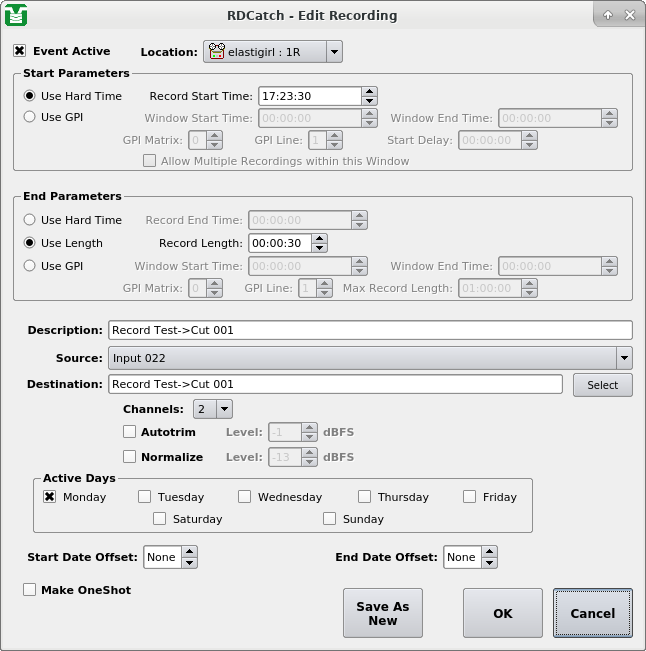
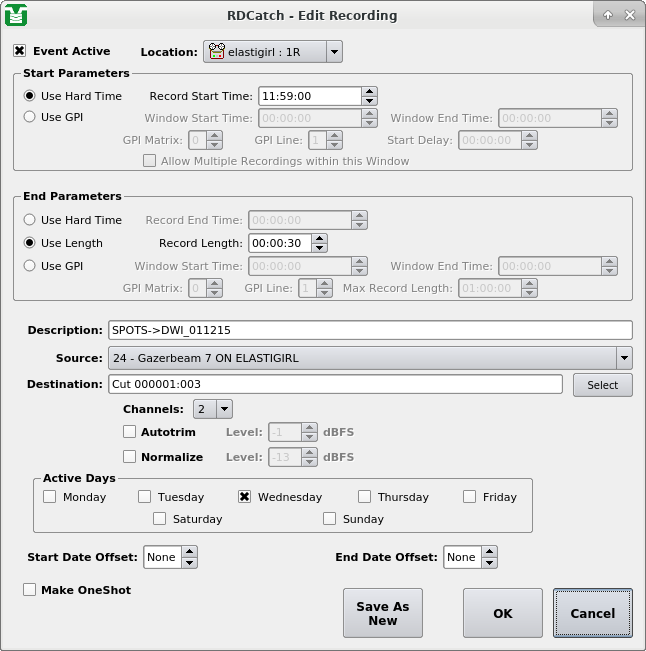
2022-09-30 Fred Gleason <fredg@paravelsystems.com> 	* Updated various dialogs in rdcatch(1) to use new 'pretty text' 	styling for cart and cut objects.

diff --git a/rdcatch/edit_recording.cpp b/rdcatch/edit_recording.cpp
@@ -29,7 +29,6 @@
 #include "edit_recording.h"
 #include "globals.h"
 
-//EditRecording::EditRecording(int id,std::vector<int> *adds,QString *filter,
 EditRecording::EditRecording(QString *filter,QWidget *parent)
   : RDDialog(parent)
 {
@@ -313,101 +312,6 @@ EditRecording::EditRecording(QString *filter,QWidget *parent)
   edit_cancel_button->setFont(buttonFont());
   edit_cancel_button->setText(tr("Cancel"));
   connect(edit_cancel_button,SIGNAL(clicked()),this,SLOT(cancelData()));
-
-  //
-  // Populate Data
-  //
-  /*
-  edit_event_widget->fromRecording(edit_recording->id());
-  edit_starttime_edit->setTime(edit_recording->startTime());
-  edit_description_edit->setText(edit_recording->description());
-  edit_starttype_group->button((int)edit_recording->startType())->
-    setChecked(true);
-  switch((RDRecording::StartType)edit_starttype_group->checkedId()) {
-  case RDRecording::HardStart:
-    edit_starttime_edit->setTime(edit_recording->startTime());
-    break;
-
-  case RDRecording::GpiStart:
-    edit_start_startwindow_edit->setTime(edit_recording->startTime());
-    edit_start_endwindow_edit->
-      setTime(edit_start_startwindow_edit->time().
-	      addMSecs(edit_recording->startLength()));
-    edit_startmatrix_spin->setValue(edit_recording->startMatrix());
-    edit_startline_spin->setValue(edit_recording->startLine());
-    edit_startoffset_edit->
-      setTime(QTime(0,0,0).addMSecs(edit_recording->startOffset()));
-    edit_multirec_box->
-      setChecked(edit_recording->allowMultipleRecordings());
-    break;
-  }
-  startTypeClickedData(edit_starttype_group->checkedId());
-  edit_endtype_group->button((int)edit_recording->endType())->setChecked(true);
-  switch((RDRecording::EndType)edit_endtype_group->checkedId()) {
-  case RDRecording::LengthEnd:
-    edit_endlength_edit->
-      setTime(QTime(0,0,0).addMSecs(edit_recording->length()));
-    break;
-
-  case RDRecording::HardEnd:
-    edit_endtime_edit->setTime(edit_recording->endTime());
-    break;
-
-  case RDRecording::GpiEnd:
-    edit_end_startwindow_edit->setTime(edit_recording->endTime());
-    edit_end_endwindow_edit->
-      setTime(edit_end_startwindow_edit->time().
-	      addMSecs(edit_recording->endLength()));
-    edit_endmatrix_spin->setValue(edit_recording->endMatrix());
-    edit_endline_spin->setValue(edit_recording->endLine());
-    break;
-  }
-  edit_maxlength_edit->
-    setTime(QTime(0,0,0).addMSecs(edit_recording->maxGpiRecordingLength()));
-  endTypeClickedData(edit_endtype_group->checkedId());
-
-  edit_cutname=edit_recording->cutName();
-  edit_destination_edit->setText(RDCutPath(edit_cutname));
-  edit_dow_selector->fromRecording(edit_recording->id());
-  edit_startoffset_box->setValue(edit_recording->startdateOffset());
-  edit_endoffset_box->setValue(edit_recording->enddateOffset());
-  locationChangedData(edit_event_widget->stationName(),
-		      edit_event_widget->deckNumber());
-
-  QString source=GetSourceName(edit_recording->switchSource());
-  for(int i=0;i<edit_source_box->count();i++) {
-    if(edit_source_box->itemData(i).toString()==source) {
-      edit_source_box->setCurrentIndex(i);
-    }
-  }
-  if(edit_recording->trimThreshold()>0) {
-    edit_autotrim_box->setChecked(true);
-    edit_autotrim_spin->setValue(-(edit_recording->trimThreshold()/100));
-  }
-  else {
-    edit_autotrim_box->setChecked(false);
-    edit_autotrim_spin->setValue(rda->libraryConf()->trimThreshold()/100);
-  }
-  autotrimToggledData(edit_autotrim_box->isChecked());
-  if(edit_recording->normalizationLevel()<0) {
-    edit_normalize_box->setChecked(true);
-    edit_normalize_spin->setValue(edit_recording->normalizationLevel()/100);
-  }
-  else {
-    edit_normalize_box->setChecked(false);
-    edit_normalize_spin->setValue(rda->libraryConf()->ripperLevel()/100);
-  }
-  normalizeToggledData(edit_normalize_box->isChecked());
-  // Populate number of channels; if creating a new recording entry and a valid
-  // deck exists, use the deck default for num. channels.  Otherwise use the
-  // previously entered (or DB default) recording num. channels.
-  if( (edit_recording->station().length() == 0) && (edit_deck!=NULL) ) {
-    edit_channels_box->setCurrentIndex(edit_deck->defaultChannels()-1);
-  } else {
-    edit_channels_box->setCurrentIndex(edit_recording->channels()-1);
-  }
-  edit_oneshot_box->setChecked(edit_recording->oneShot());
-  */
 }
 
 
@@ -497,7 +401,13 @@ int EditRecording::exec(int id,std::vector<int> *adds)
   endTypeClickedData(edit_endtype_group->checkedId());
 
   edit_cutname=edit_recording->cutName();
-  edit_destination_edit->setText(RDCutPath(edit_cutname));
+  if(edit_cutname.isEmpty()) {
+    edit_destination_edit->clear();
+  }
+  else {
+    edit_destination_edit->
+      setText(tr("Cut")+" "+RDCut::prettyText(edit_cutname));
+  }
   edit_dow_selector->fromRecording(edit_recording->id());
   edit_startoffset_box->setValue(edit_recording->startdateOffset());
   edit_endoffset_box->setValue(edit_recording->enddateOffset());
@@ -638,12 +548,15 @@ void EditRecording::endTypeClickedData(int id)
 
 void EditRecording::selectCutData()
 {
-  QString str;
-
   if(catch_cut_dialog->exec(&edit_cutname)) {
     edit_description_edit->setText(RDCutPath(edit_cutname));
-    str=QString(tr("Cut"));
-    edit_destination_edit->setText(tr("Cut")+" "+edit_cutname);
+    if(edit_cutname.isEmpty()) {
+      edit_destination_edit->clear();
+    }
+    else {
+      edit_destination_edit->
+	setText(tr("Cut")+" "+RDCut::prettyText(edit_cutname));
+    }
   }
 }
 

diff --git a/rdcatch/add_recording.cpp b/rdcatch/add_recording.cpp
@@ -157,7 +157,7 @@ int AddRecording::exec(unsigned *rec_id,RDRecording::Type *type)
 
 void AddRecording::recordingData()
 {
-  *add_record_id=AddRecord(0);
+  *add_record_id=AddRecord(RDRecording::Recording,0);
 
   if(!catch_editrecording_dialog->exec(*add_record_id,NULL)) {
     DeleteRecord();
@@ -171,7 +171,7 @@ void AddRecording::recordingData()
 
 void AddRecording::playoutData()
 {
-  *add_record_id=AddRecord(128);
+  *add_record_id=AddRecord(RDRecording::Playout,128);
 
   if(!catch_editplayout_dialog->exec(*add_record_id,NULL)) {
     DeleteRecord();
@@ -185,7 +185,7 @@ void AddRecording::playoutData()
 
 void AddRecording::downloadData()
 {
-  *add_record_id=AddRecord(0);
+  *add_record_id=AddRecord(RDRecording::Download,0);
 
   if(!catch_editdownload_dialog->exec(*add_record_id,NULL)) {
     DeleteRecord();
@@ -199,7 +199,7 @@ void AddRecording::downloadData()
 
 void AddRecording::uploadData()
 {
-  *add_record_id=AddRecord(0);
+  *add_record_id=AddRecord(RDRecording::Upload,0);
 
   if(!catch_editupload_dialog->exec(*add_record_id,NULL)) {
     DeleteRecord();
@@ -213,7 +213,7 @@ void AddRecording::uploadData()
 
 void AddRecording::macroData()
 {
-  *add_record_id=AddRecord(0);
+  *add_record_id=AddRecord(RDRecording::MacroEvent,0);
 
   if(!catch_editcartevent_dialog->exec(*add_record_id,NULL)) {
     DeleteRecord();
@@ -227,7 +227,7 @@ void AddRecording::macroData()
 
 void AddRecording::switchData()
 {
-  *add_record_id=AddRecord(0);
+  *add_record_id=AddRecord(RDRecording::SwitchEvent,0);
 
   if(!catch_editswitchevent_dialog->exec(*add_record_id,NULL)) {
     DeleteRecord();
@@ -280,14 +280,38 @@ void AddRecording::closeEvent(QCloseEvent *e)
 }
 
 
-unsigned AddRecording::AddRecord(unsigned chan) const
+unsigned AddRecording::AddRecord(RDRecording::Type type,unsigned chan) const
 {
   QString sql;
 
   sql=QString("insert into `RECORDINGS` set ")+
     "`STATION_NAME`='"+RDEscapeString(rda->station()->name())+"',"+
+    QString::asprintf("`TYPE`=%u,",type)+
     QString::asprintf("`CHANNEL`=%u,",chan)+
     "`CUT_NAME`=''";
+  switch(type) {
+  case RDRecording::Recording:
+    break;
+
+  case RDRecording::Playout:
+    break;
+
+  case RDRecording::Download:
+    break;
+
+  case RDRecording::Upload:
+    break;
+
+  case RDRecording::MacroEvent:
+    break;
+
+  case RDRecording::SwitchEvent:
+    sql+=",`DESCRIPTION`='"+RDEscapeString(tr("[new switch event]"))+"'";
+    break;
+
+  case RDRecording::LastType:
+    break;
+  }
   return RDSqlQuery::run(sql).toUInt();
 }
 

diff --git a/rdcatch/edit_download.cpp b/rdcatch/edit_download.cpp
@@ -271,7 +271,12 @@ int EditDownload::exec(int record_id,std::vector<int> *adds)
   edit_password_edit->setText(edit_recording->urlPassword());
   edit_use_id_file_check->setChecked(edit_recording->urlUseIdFile());
   edit_cutname=edit_recording->cutName();
-  edit_destination_edit->setText("Cut "+edit_cutname);
+  if(edit_cutname.isEmpty()) {
+    edit_destination_edit->clear();
+  }
+  else {
+    edit_destination_edit->setText("Cut "+RDCut::prettyText(edit_cutname));
+  }
   edit_channels_box->setCurrentIndex(edit_recording->channels()-1);
   if(edit_recording->trimThreshold()>0) {
     edit_autotrim_box->setChecked(true);
@@ -345,7 +350,13 @@ void EditDownload::selectCartData()
 {
   if(catch_cut_dialog->exec(&edit_cutname)) {
     edit_description_edit->setText(RDCutPath(edit_cutname));
-    edit_destination_edit->setText(tr("Cut")+" "+edit_cutname);
+    if(edit_cutname.isEmpty()) {
+      edit_destination_edit->clear();
+    }
+    else {
+      edit_destination_edit->
+	setText(tr("Cut")+" "+RDCut::prettyText(edit_cutname));
+    }
   }
 }
 
@@ -532,7 +543,7 @@ bool EditDownload::CheckEvent(bool include_myself)
     "(`START_TIME`='"+RDEscapeString(edit_event_widget->startTime().
 				    toString("hh:mm:ss"))+"')&&"+
     "(`URL`='"+RDEscapeString(edit_url_edit->text())+"')&&"+
-    "(`CUT_NAME`='"+RDEscapeString(edit_destination_edit->text().right(10))+"')";
+    "(`CUT_NAME`='"+RDEscapeString(edit_cutname)+"')";
   if(edit_dow_selector->dayOfWeekEnabled(7)) {
     sql+="&&(`SUN`='Y')";
   }

diff --git a/rdcatch/edit_playout.cpp b/rdcatch/edit_playout.cpp
@@ -164,7 +164,13 @@ int EditPlayout::exec(int id,std::vector<int> *adds)
   edit_event_widget->fromRecording(edit_recording->id());
   edit_description_edit->setText(edit_recording->description());
   edit_cutname=edit_recording->cutName();
-  edit_destination_edit->setText(RDCutPath(edit_cutname));
+  if(edit_cutname.isEmpty()) {
+    edit_destination_edit->clear();
+  }
+  else {
+    edit_destination_edit->
+      setText(tr("Cut")+" "+RDCut::prettyText(edit_cutname));
+  }
   edit_dow_selector->fromRecording(edit_recording->id());
   edit_oneshot_box->setChecked(edit_recording->oneShot());
   locationChangedData(edit_event_widget->stationName(),
@@ -186,8 +192,15 @@ void EditPlayout::locationChangedData(const QString &station,int decknum)
 void EditPlayout::selectCutData()
 {
   if(edit_cut_dialog->exec(&edit_cutname)) {
-    edit_destination_edit->setText(edit_cutname);
-    edit_description_edit->setText(RDCutPath(edit_cutname));
+    if(edit_cutname.isEmpty()) {
+      edit_destination_edit->clear();
+      edit_description_edit->clear();
+    }
+    else {
+      edit_destination_edit->
+	setText(tr("Cut")+" "+RDCut::prettyText(edit_cutname));
+      edit_description_edit->setText(RDCutPath(edit_cutname));
+    }
   }
 }
 

diff --git a/rdcatch/edit_cartevent.cpp b/rdcatch/edit_cartevent.cpp
@@ -164,8 +164,7 @@ int EditCartEvent::exec(int id,std::vector<int> *adds)
   edit_event_widget->fromRecording(edit_recording->id());
   edit_description_edit->setText(edit_recording->description());
   if(edit_cart!=NULL) {
-    edit_destination_edit->
-      setText(QString::asprintf("%06d",edit_cart->number()));
+    edit_destination_edit->setText(RDCart::prettyText(edit_cart->number()));
   }
   edit_dow_selector->fromRecording(edit_recording->id());
   edit_oneshot_box->setChecked(edit_recording->oneShot());
@@ -191,7 +190,7 @@ void EditCartEvent::selectCartData()
       delete edit_cart;
     }
     edit_cart=new RDCart(cartnum);
-    edit_destination_edit->setText(QString::asprintf("%d",cartnum));
+    edit_destination_edit->setText(RDCart::prettyText(cartnum));
     edit_description_edit->setText(edit_cart->title());
   }
 }

diff --git a/lib/rdrecording.h b/lib/rdrecording.h
@@ -2,7 +2,7 @@
 //
 // Abstract a Rivendell RDCatch Event
 //
-//   (C) Copyright 2002-2020 Fred Gleason <fredg@paravelsystems.com>
+//   (C) Copyright 2002-2022 Fred Gleason <fredg@paravelsystems.com>
 //
 //   This program is free software; you can redistribute it and/or modify
 //   it under the terms of the GNU General Public License version 2 as
@@ -18,8 +18,7 @@
 //   Foundation, Inc., 675 Mass Ave, Cambridge, MA 02139, USA.
 //
 
-#include <qsqldatabase.h>
-#include <qdatetime.h>
+#include <QDateTime>
 
 #include <rdsettings.h>
 

diff --git a/rdcatch/add_recording.h b/rdcatch/add_recording.h
@@ -50,7 +50,7 @@ class AddRecording : public RDDialog
   void closeEvent(QCloseEvent *e);
   
  private: 
-  unsigned AddRecord(unsigned chan) const;
+  unsigned AddRecord(RDRecording::Type type,unsigned chan) const;
   void DeleteRecord();
   unsigned *add_record_id;
   RDRecording::Type *add_type;
